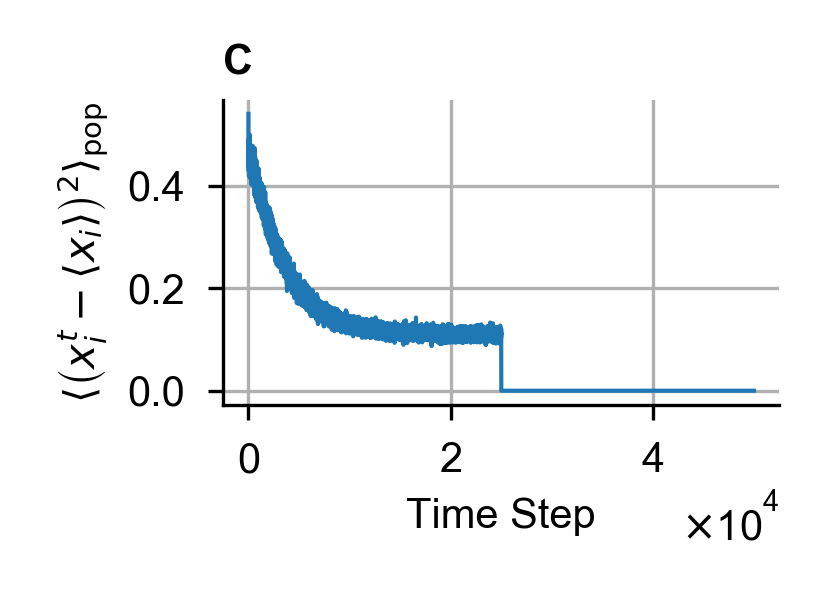
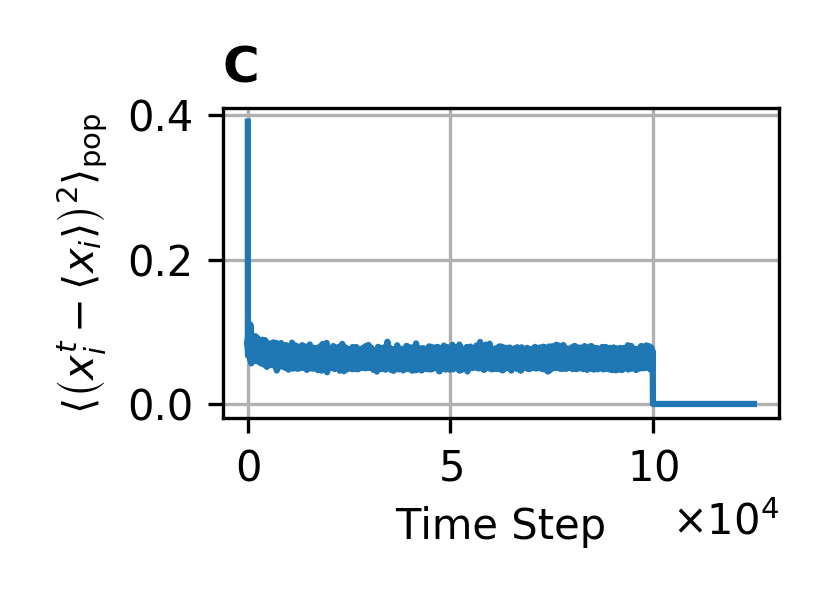
.

diff --git a/code/simulation.py b/code/simulation.py
@@ -1,6 +1,7 @@
 #!/usr/bin/env python3
 import numpy as np
 from tqdm import tqdm
+import os
 
 class driven_net:
 
@@ -67,3 +68,20 @@ class driven_net:
             self.I_in_rec[t,:] = I_in
             self.gain_rec[t,:] = gain
             self.var_mean_rec[t] = (x_net**2).mean()
+    def save_data(self,folder):
+        if not os.path.exists(folder):
+            os.makedirs(folder)
+        np.savez_compressed(folder + "sim_results.npz",
+        N_net = self.N_net
+        cf_net = self.cf_net = cf_net
+        std_conn = self.std_conn = std_conn
+        std_in = self.std_in = std_in
+        var_act_target = self.var_act_target = var_act_target
+        mu_gain = self.mu_gain = mu_gain
+        n_t = self.n_t = n_t
+        t_ext_off = self.t_ext_off = t_ext_off
+        x_net_rec = self.x_net_rec
+        I_in_rec = self.I_in_rec = np.ndarray((n_t, N_net))
+        gain_rec = self.gain_rec = np.ndarray((n_t, N_net))
+        var_mean_rec = self.var_mean_rec = np.ndarray((n_t))
+        W = self.W = np.random.normal(0., std_conn, (N_net,N_net))  )

diff --git a/code/sim_test.py b/code/sim_test.py
@@ -13,15 +13,15 @@ cf_net_def = 0.1
 
 std_conn_def = 1.
 
-std_in_def = 1.
+std_in_def = .125
 
-var_act_target_def = 0.33**2
+var_act_target_def = 0.25**2
 
 mu_gain_def = 0.0005
 
-n_t_def = 50000
+n_t_def = 125000
 
-t_ext_off_def = 25000
+t_ext_off_def = 100000
 
 
 DN = driven_net(N_net_def,
@@ -123,7 +123,7 @@ t_ax_eig = np.array(range(int(n_t_def/dt_subsample)))*dt_subsample
 ax_eig.plot(t_ax_eig, np.log(l_abs_max))
 
 ax_eig.set_xlabel("Time Steps")
-ax_eig.set_ylabel("${\\rm log \\left(argmax\\{Re(\\lambda^t)\\}\\right) }$")
+ax_eig.set_ylabel("${\\rm log \\left(arg\\,max_i\\{||\\lambda_i^t||\\}\\right) }$")
 
 ax_eig.grid()
 
@@ -132,6 +132,11 @@ ax_eig.set_title("D",{'fontweight' : 'bold'}, loc="left")
 fig_eig.tight_layout()
 fig_eig.savefig("../plots/eig.png", dpi=300)
 #####################################
+
+#====================================
+fig_gain_stat, ax_gain_stat = plt.subplots()
+#####################################
+
 
 #====================================
 from PIL import Image

diff --git a/code/max_lyap_sweep.py b/code/max_lyap_sweep.py
@@ -21,8 +21,8 @@ n_t_def = 25000
 
 t_ext_off_def = 25000
 
-n_sweep_std_in = 2
-n_sweep_std_act_target = 2
+n_sweep_std_in = 20
+n_sweep_std_act_target = 20
 
 std_in_sweep_range = np.linspace(0.,.25,n_sweep_std_in)
 std_act_target_sweep_range = np.linspace(0.,0.72,n_sweep_std_act_target)
